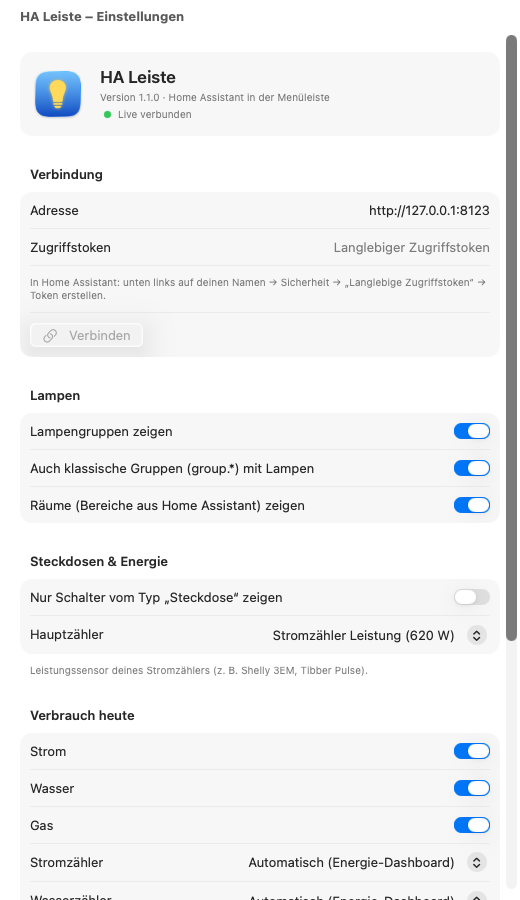
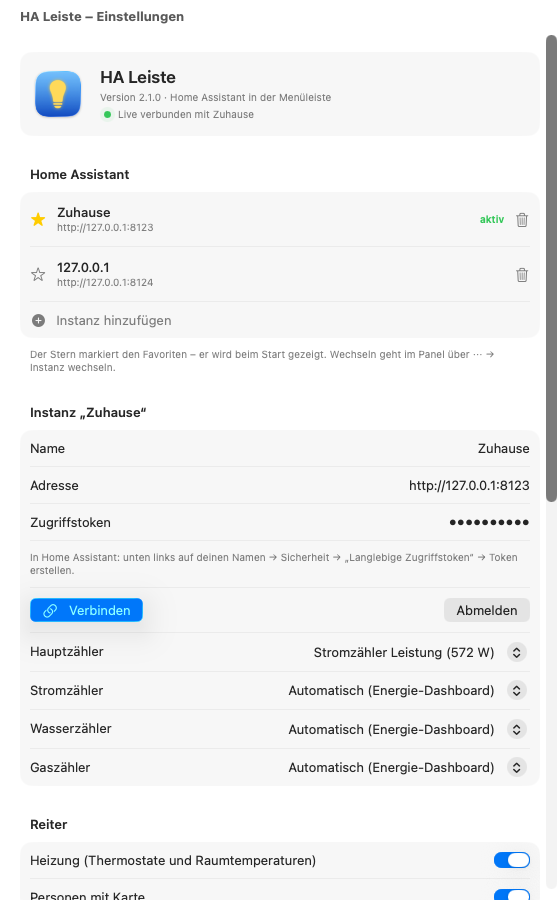
2.1: Mehrere Instanzen, Heizung, Personen mit Karte, Widgets für KDE und macOS

diff --git a/macos/Sources/HALeiste/App.swift b/macos/Sources/HALeiste/App.swift
@@ -47,6 +47,11 @@ final class Kern {
     private init() {
         einstellungen = Einstellungen(vorschau: vorschau)
         einstellungen.geaendert = { [weak self] in self?.uebernehmen() }
+        // Ohne eigenen Namen gleich den Namen der Installation aus Home Assistant übernehmen
+        ha.standortGeladen = { [weak self] name in
+            guard let self, let i = self.aktiv, i.name.isEmpty else { return }
+            self.einstellungen.aendern(i.id) { $0.name = name }
+        }
         if vorschau {
             // Testlauf: Instanzen aus Umgebungsvariablen (HA_ADRESSE/HA_TOKEN, optional HA_ADRESSE2/HA_TOKEN2)
             let env = ProcessInfo.processInfo.environment
@@ -163,10 +168,14 @@ final class Kern {
     func ausfuehren(_ befehl: String) {
         let teile = befehl.split(separator: "|").map(String.init)
         switch teile.first {
+        // Nur bekannte Lampen/Steckdosen/Thermostate und gültige Temperaturen annehmen –
+        // die Mitteilungen kann jedes Programm auf dem Mac schicken.
         case "schalte" where teile.count >= 3:
+            guard ["light", "switch", "group"].contains(Logik.domain(teile[1])), ha.zustaende[teile[1]] != nil else { return }
             ha.schalte(teile[1], teile[2] == "1")
         case "temp" where teile.count >= 3:
-            if let t = Double(teile[2]) { ha.setzeTemperatur(teile[1], t) }
+            guard Logik.domain(teile[1]) == "climate", let k = Logik.klimaStatus(ha.zustaende[teile[1]]), let t = Double(teile[2]) else { return }
+            ha.setzeTemperatur(teile[1], Logik.rundeZiel(t, k))
         case "alleaus":
             ha.alleLichterAus()
         default:

diff --git a/plasma/package/contents/ui/KachelAnsicht.qml b/plasma/package/contents/ui/KachelAnsicht.qml
@@ -32,6 +32,9 @@ Item {
     Layout.preferredHeight: Kirigami.Units.gridUnit * (klein ? 6 : gross ? 24 : art === "uebersicht" ? 10 : 13)
 
     readonly property bool bereit: ha.eingerichtet && ha.verbunden
+    // für die Restzeit beim Extra heizen
+    property double jetzt: Date.now()
+    Timer { interval: 30000; running: kachel.art === "heizung" || kachel.art === "raum"; repeat: true; onTriggered: kachel.jetzt = Date.now() }
     readonly property bool zielFehlt: ["lampe", "steckdose", "raum", "heizung", "entitaet"].indexOf(art) >= 0 && ziel === ""
 
     // ---- Nicht eingerichtet / keine Verbindung / nichts gewählt ----
@@ -165,6 +168,7 @@ Item {
                 ha: kachel.ha
                 raum: parent.raumDaten || { id: "", name: "", klima: [], temperatur: "", feuchte: "" }
                 steuerung: kachel.steuerung
+                jetzt: kachel.jetzt
                 aufgeklappt: true
             }
             Item { Layout.fillHeight: true }
@@ -208,6 +212,7 @@ Item {
                         ha: kachel.ha
                         raum: raumKachel.klimaRaum || { id: "", name: "", klima: [], temperatur: "", feuchte: "" }
                         steuerung: kachel.steuerung
+                        jetzt: kachel.jetzt
                     }
                     Repeater {
                         model: raumKachel.lampenRaum ? raumKachel.lampenRaum.lichter : []

diff --git a/macos/Sources/HALeiste/HaVerbindung.swift b/macos/Sources/HALeiste/HaVerbindung.swift
@@ -46,7 +46,8 @@ final class HaVerbindung {
     private(set) var personen: [Person] = []
     private(set) var zonen: [Zone] = []
     /// Name der Installation aus Home Assistant (Einstellungen → Allgemein)
-    private(set) var standortName = ""
+    private(set) var standortName = "" { didSet { if !standortName.isEmpty { standortGeladen(standortName) } } }
+    @ObservationIgnored var standortGeladen: (String) -> Void = { _ in }
 
     private(set) var verbunden = false
     private(set) var laedt = false

diff --git a/macos/README.md b/macos/README.md
@@ -8,6 +8,10 @@ in der Menüleiste – im **Liquid-Glass-Design von macOS 26 Tahoe**. Gegenstüc
 |---|---|---|
 | ![Lampen](bilder/lampen-dunkel.png) | ![Steckdosen](bilder/steckdosen-hell.png) | ![Energie](bilder/energie-dunkel.png) |
 
+| Heizung | Personen |
+|---|---|
+| ![Heizung](bilder/heizung-dunkel.png) | ![Personen](bilder/personen-hell.png) |
+
 ## Was es kann
 
 - **Lampen**: Lampengruppen und Räume aus Home Assistant zum Aufklappen, Lampen ohne Raum.
@@ -20,6 +24,16 @@ in der Menüleiste – im **Liquid-Glass-Design von macOS 26 Tahoe**. Gegenstüc
 - **Energie**: aktueller Verbrauch mit Kennzahlen der letzten 24 Stunden (Energie, Durchschnitt,
   Spitze), Verlauf mit Werten beim Überfahren mit der Maus, **Verbrauch heute** an Strom, Wasser
   und Gas (mit dem Wert von gestern), die größten Verbraucher mit Anteil und alle Zählerstände.
+- **Heizung**: alle Räume mit Temperatur (live) und Luftfeuchte, Zieltemperatur mit Regler
+  (blau → orange) und −/+, Modus, Profil und **Extra heizen** für 30 Minuten bis 4 Stunden –
+  danach geht die Temperatur von selbst zurück.
+- **Personen**: Apple-Karte mit Zonen (Zuhause, Arbeit …) und allen Personen, darunter wer wo
+  ist, seit wann und wie weit weg – und ob gerade geheizt wird.
+- **Mehrere Instanzen**: beliebig viele Home-Assistant-Installationen, eine als Favorit (★, wird
+  beim Start gezeigt). Wechseln im Panel über ⋯ → „Instanz wechseln“.
+- **Widgets für den Schreibtisch**: Übersicht, Lampe, Steckdose, Heizung, Raum, Energie,
+  Personen und eine beliebige Entität – Lampen und Steckdosen lassen sich direkt im Widget
+  schalten, die Heizung mit −/+ verstellen.
 - **Live**: Änderungen (Schalter an der Wand, Automationen, App) erscheinen sofort über die
   WebSocket-Schnittstelle von Home Assistant. Nach dem Ruhezustand verbindet sich die App neu.
 - **Menüleiste**: Glühbirne mit der Zahl der eingeschalteten Lampen.
@@ -42,6 +56,15 @@ in der Menüleiste – im **Liquid-Glass-Design von macOS 26 Tahoe**. Gegenstüc
    Auf **Verbinden** klicken. macOS fragt evtl., ob die App auf Geräte im lokalen Netzwerk zugreifen darf → **Erlauben**.
 
 Nach einem Update fragt macOS evtl. einmal, ob HA Leiste den Token im Schlüsselbund lesen darf → **Immer erlauben**.
+
+### Widgets auf den Schreibtisch legen
+
+Rechtsklick auf den Schreibtisch → **Widgets bearbeiten …** → links **HA Leiste** suchen → Widget
+auf den Schreibtisch ziehen. Bei Lampe, Steckdose, Heizung, Raum und Entität: Rechtsklick auf das
+Widget → **Widget bearbeiten** → auswählen, was es zeigen soll. Die Widgets bekommen ihre Daten
+von der laufenden App (HA Leiste muss also laufen – am besten „Beim Anmelden starten“ einschalten).
+
+![Widgets](bilder/widgets-hell.png)
 
 ## Einstellungen
 
@@ -67,7 +90,7 @@ Nach einem Update fragt macOS evtl. einmal, ob HA Leiste den Token im Schlüssel
 ```bash
 cd macos
 swift test                 # Logik prüfen
-./scripts/baue-app.sh      # build/HA Leiste.app und ZIP (Apple Silicon + Intel)
+./scripts/baue-app.sh      # build/HA Leiste.app mit Widgets und ZIP (Xcode + XcodeGen nötig)
 node ../test/ha-mock.mjs & # nachgebautes Home Assistant auf Port 8123 (Token: test-token)
 HA_TOKEN=test-token HA_HAUPTZAEHLER=sensor.stromzaehler_leistung \
   "build/HA Leiste.app/Contents/MacOS/HALeiste" --vorschau Dark   # Bildschirmfotos

diff --git a/plasma/README.md b/plasma/README.md
@@ -8,6 +8,14 @@ und alles ist da.
 |---|---|---|
 | ![Lampen](bilder/lampen-dunkel.png) | ![Steckdosen](bilder/steckdosen-hell.png) | ![Energie](bilder/energie-dunkel.png) |
 
+| Heizung | Personen |
+|---|---|
+| ![Heizung](bilder/heizung-dunkel.png) | ![Personen](bilder/personen-hell.png) |
+
+**Kacheln auf dem Schreibtisch:**
+
+![Kacheln](bilder/kacheln-dunkel.png)
+
 ## Was es kann
 
 - **Lampen**: oben deine Lampengruppen, darunter die Räume (Bereiche aus Home Assistant),
@@ -21,7 +29,18 @@ und alles ist da.
 - **Energie**: aktueller Verbrauch mit Kennzahlen der letzten 24 Stunden (Energie, Durchschnitt,
   Spitze), Verlauf mit Werten beim Überfahren mit der Maus, **Verbrauch heute** an Strom,
   Wasser und Gas (mit dem Wert von gestern), die größten Verbraucher mit Anteil und alle
-  Zählerstände als Kacheln.
+  Zählerstände.
+- **Heizung**: alle Räume mit Temperatur (live) und Luftfeuchte. Zieltemperatur mit Regler
+  und −/+, Modus (Aus/Heizen/Automatik), Profil (Eco, Komfort …) und **Extra heizen**: eine
+  Temperatur für 30 Minuten bis 4 Stunden, danach automatisch zurück – auch nach einem Neustart.
+- **Personen**: Karte wie bei „Wo ist?“ mit Zonen (Zuhause, Arbeit …), darunter wer wo ist, seit
+  wann und wie weit von zu Hause – dazu, ob gerade geheizt wird.
+- **Mehrere Instanzen**: beliebig viele Home-Assistant-Installationen, eine als Favorit (wird
+  beim Start gezeigt). Wechseln über das Menü ⋮ → „Instanz wechseln“.
+- **Kacheln für den Schreibtisch**: das Widget einfach auf den Schreibtisch ziehen – je Kachel
+  wählbar: Übersicht, eine Lampe, eine Steckdose, ein Raum, eine Heizung, Energie, Personen,
+  eine beliebige Entität oder alles. Mehrere Kacheln = Widget mehrmals hinziehen; schon
+  eingerichtete Instanzen werden übernommen.
 - **Live**: Änderungen (Schalter an der Wand, Automationen, App) erscheinen sofort über die
   WebSocket-Schnittstelle von Home Assistant.
 - **Panel-Symbol** im Breeze-Stil (Haus mit Glühbirne), so groß wie die Symbole im
@@ -55,6 +74,10 @@ und alles ist da.
 
 ## Einstellungen
 
+- **Instanzen**: hinzufügen, entfernen, Stern = Favorit. Ohne Namen wird der Name der
+  Installation aus Home Assistant übernommen. Hauptzähler und Zähler je Instanz.
+- Reiter Heizung und Personen ein- und ausblenden
+- **Schreibtisch**: was die Kachel zeigt (eigene Einstellungsseite)
 - Gruppen und/oder Räume anzeigen, klassische `group.*`-Gruppen einbeziehen
 - Nur Schalter vom Typ „Steckdose“ zeigen
 - Entitäten ausblenden, auch mit `*`: `light.flur_nachtlicht, switch.*_kindersicherung`
@@ -64,6 +87,13 @@ und alles ist da.
   lassen sich von Hand wählen.
 
 ## Gut zu wissen
+
+- **Karte**: Kartenkacheln von [OpenStreetMap Deutschland](https://www.openstreetmap.de/)
+  (© OpenStreetMap-Mitwirkende). Es werden nur die gerade sichtbaren Kacheln geladen.
+- **Extra heizen** setzt die Temperatur zurück, solange das Widget läuft (Plasma ist an). War
+  der Rechner aus, passiert das beim nächsten Start.
+- Die Instanzen (mit Token) werden zum Übernehmen in weitere Widgets unter
+  `~/.config/homeassistant-leiste/instanzen.json` abgelegt (nur für dich lesbar).
 
 - **Lampengruppen** sind Lichtgruppen aus Home Assistant (*Einstellungen → Geräte & Dienste →
   Helfer → Gruppe → Licht-Gruppe*) und klassische Gruppen, die nur Lampen enthalten.

diff --git a/README.md b/README.md
@@ -3,11 +3,14 @@
 Lampen, Steckdosen und Energieverbrauch aus [Home Assistant](https://www.home-assistant.io/) mit einem Klick –
 als **Plasma-Widget für KDE** (neben der Uhr, im Breeze-Look) und als **Menüleisten-App für macOS**
 (im Liquid-Glass-Design von macOS 26). Beide können dasselbe; die Logik ist die gleiche.
+Dazu gibt es auf beiden Systemen **Widgets für den Schreibtisch**.
 
 | KDE Plasma 6 | macOS |
 |---|---|
 | ![KDE](plasma/bilder/lampen-dunkel.png) | ![macOS](macos/bilder/lampen-dunkel.png) |
-| ![KDE Energie](plasma/bilder/energie-dunkel.png) | ![macOS Energie](macos/bilder/energie-dunkel.png) |
+| ![KDE Heizung](plasma/bilder/heizung-dunkel.png) | ![macOS Heizung](macos/bilder/heizung-dunkel.png) |
+| ![KDE Personen](plasma/bilder/personen-hell.png) | ![macOS Personen](macos/bilder/personen-hell.png) |
+| ![KDE Kacheln](plasma/bilder/kacheln-dunkel.png) | ![macOS Widgets](macos/bilder/widgets-hell.png) |
 
 ## Was beide können
 
@@ -15,6 +18,11 @@ als **Plasma-Widget für KDE** (neben der Uhr, im Breeze-Look) und als **Menüle
 - **Steckdosen**: Steckdosenleisten und Schaltergruppen mit gemeinsamem Schalter und Verbrauch, einzelne Dosen nach Raum
 - **Energie**: aktueller Verbrauch, Verlauf der letzten 24 Stunden, **Verbrauch heute** (Strom, Wasser, Gas),
   größte Verbraucher, Zählerstände
+- **Heizung**: alle Räume mit Temperatur und Luftfeuchte, Zieltemperatur per Regler, Modus, Profil,
+  **Extra heizen** für 30 Minuten bis 4 Stunden
+- **Personen**: Karte wie bei „Wo ist?“, wer ist wo und wie weit weg, heizt es gerade?
+- **Mehrere Home-Assistant-Instanzen** mit Favorit, Wechsel über das Menü
+- **Widgets/Kacheln** für den Schreibtisch: Übersicht, Lampe, Steckdose, Raum, Heizung, Energie, Personen, Entität
 - **Live** über die WebSocket-Schnittstelle von Home Assistant, Schutz vor IP-Sperre bei falschem Token
 
 ## Herunterladen
